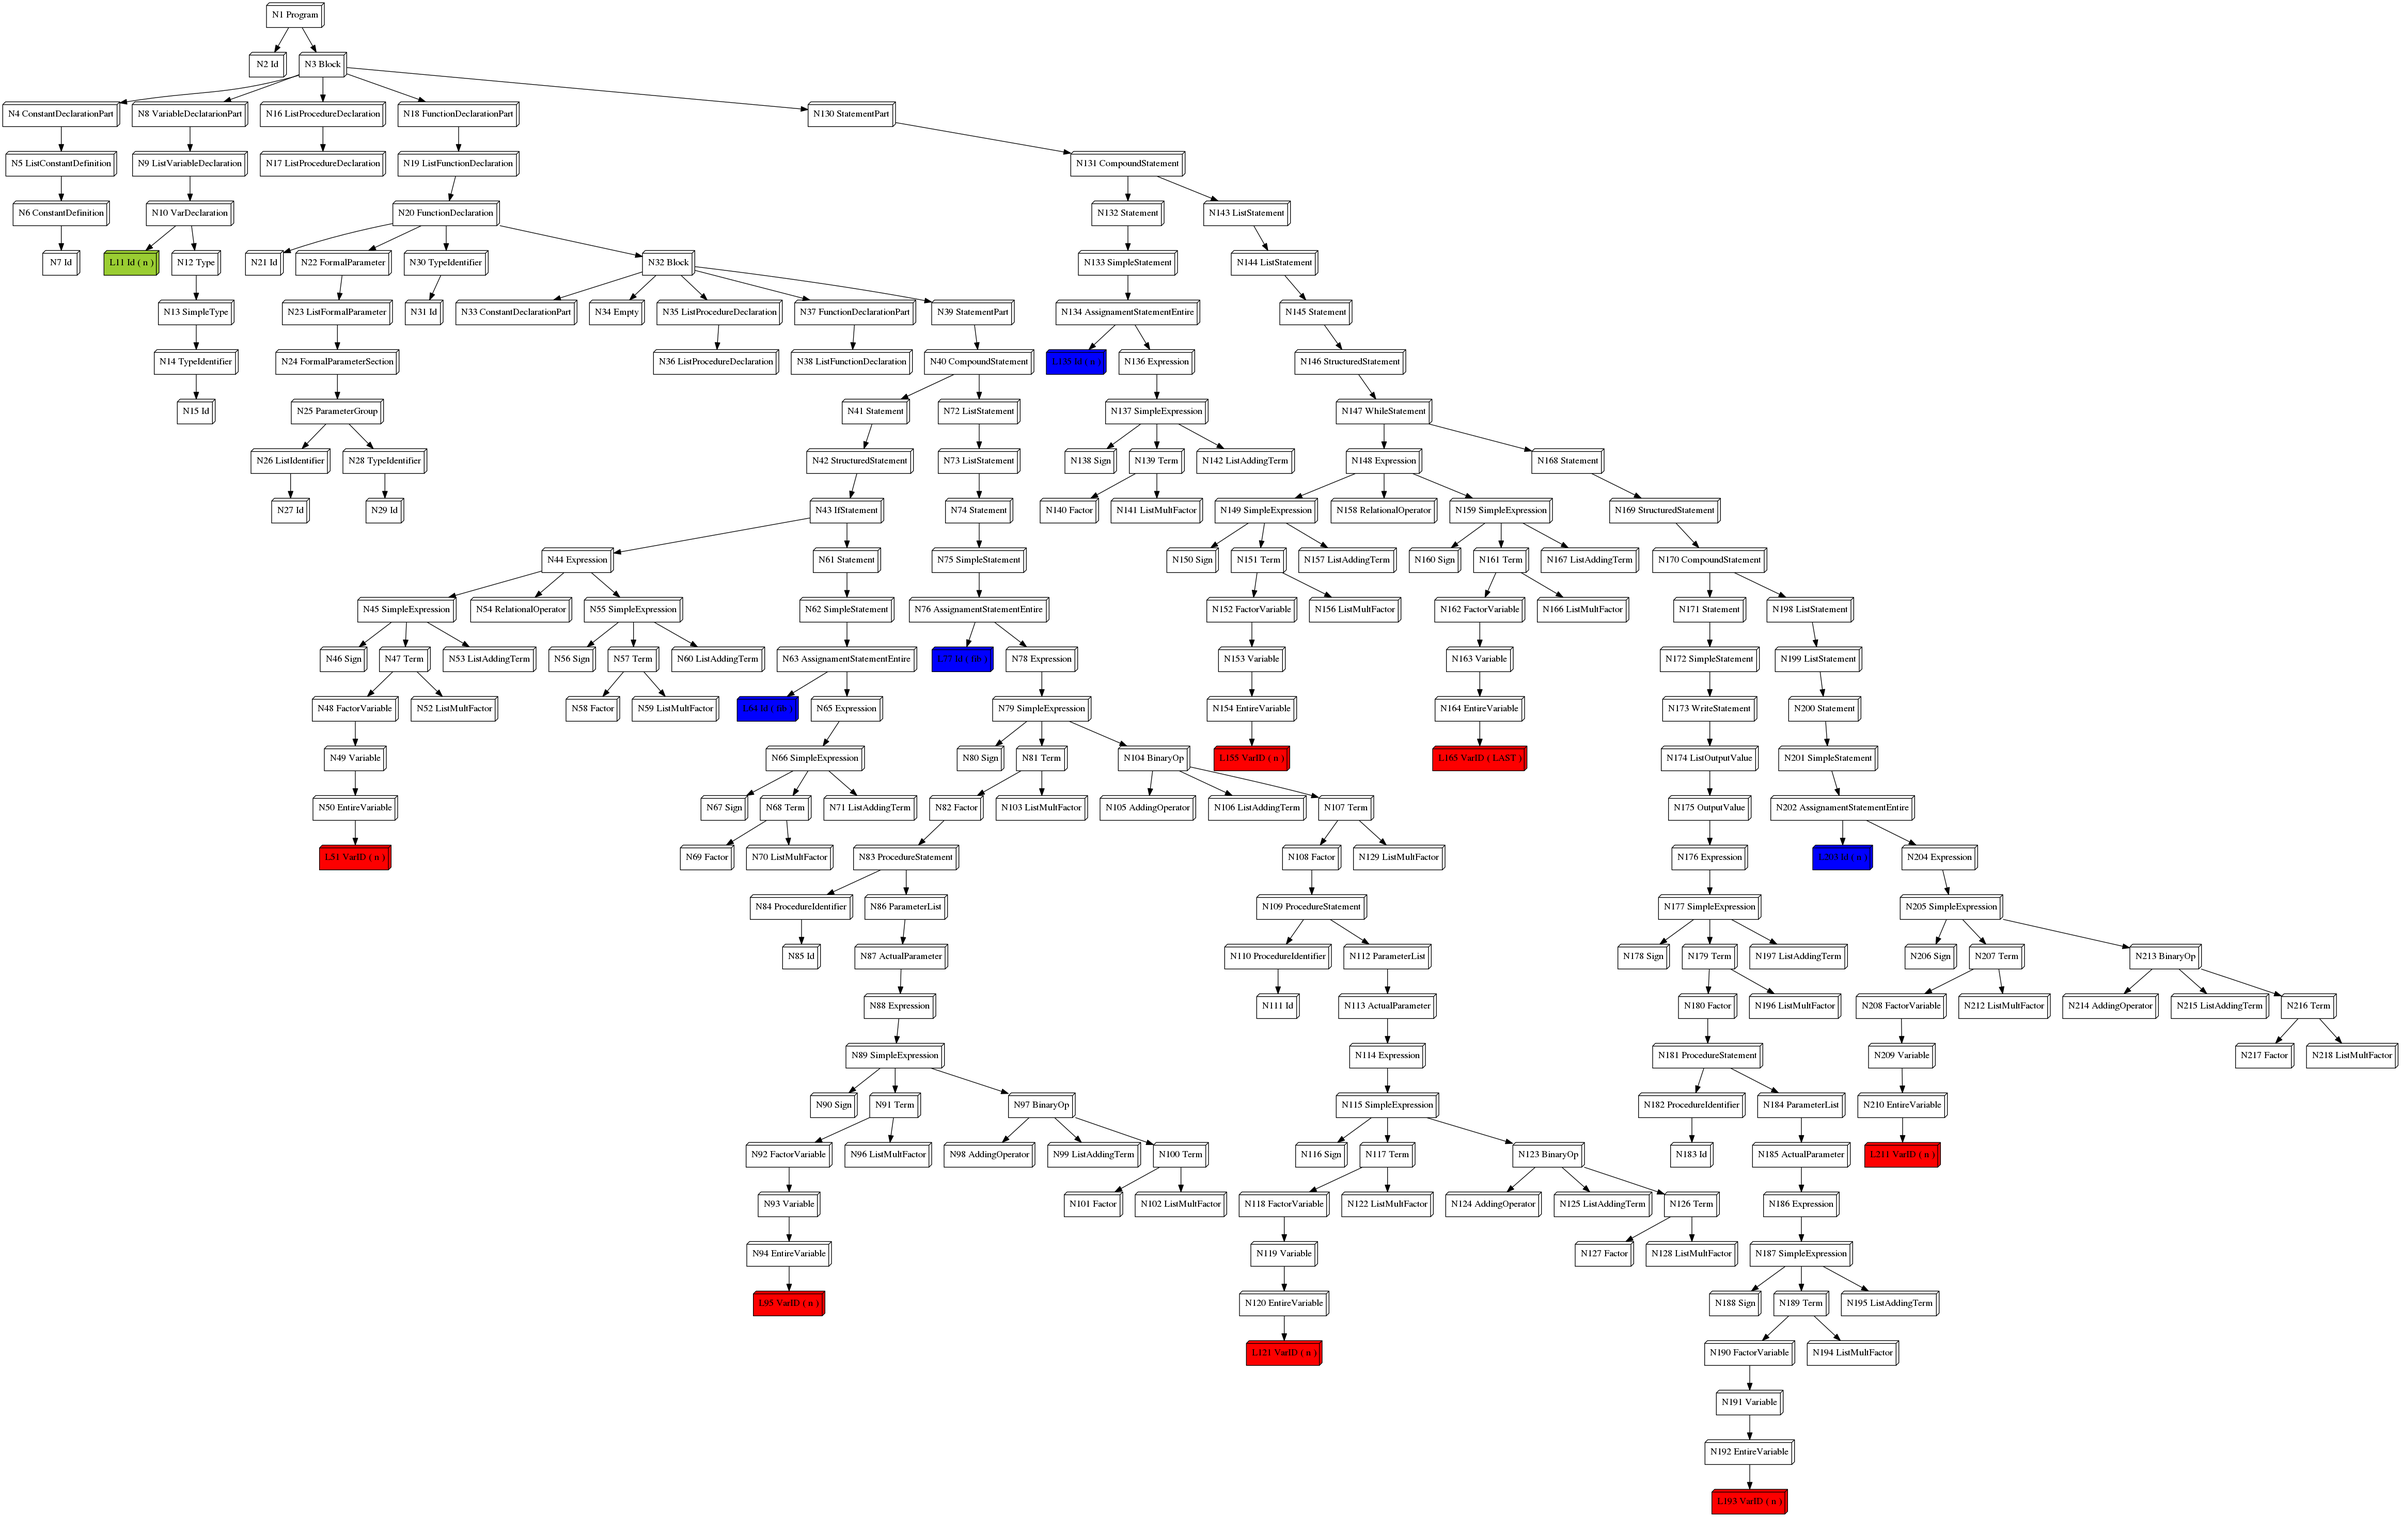
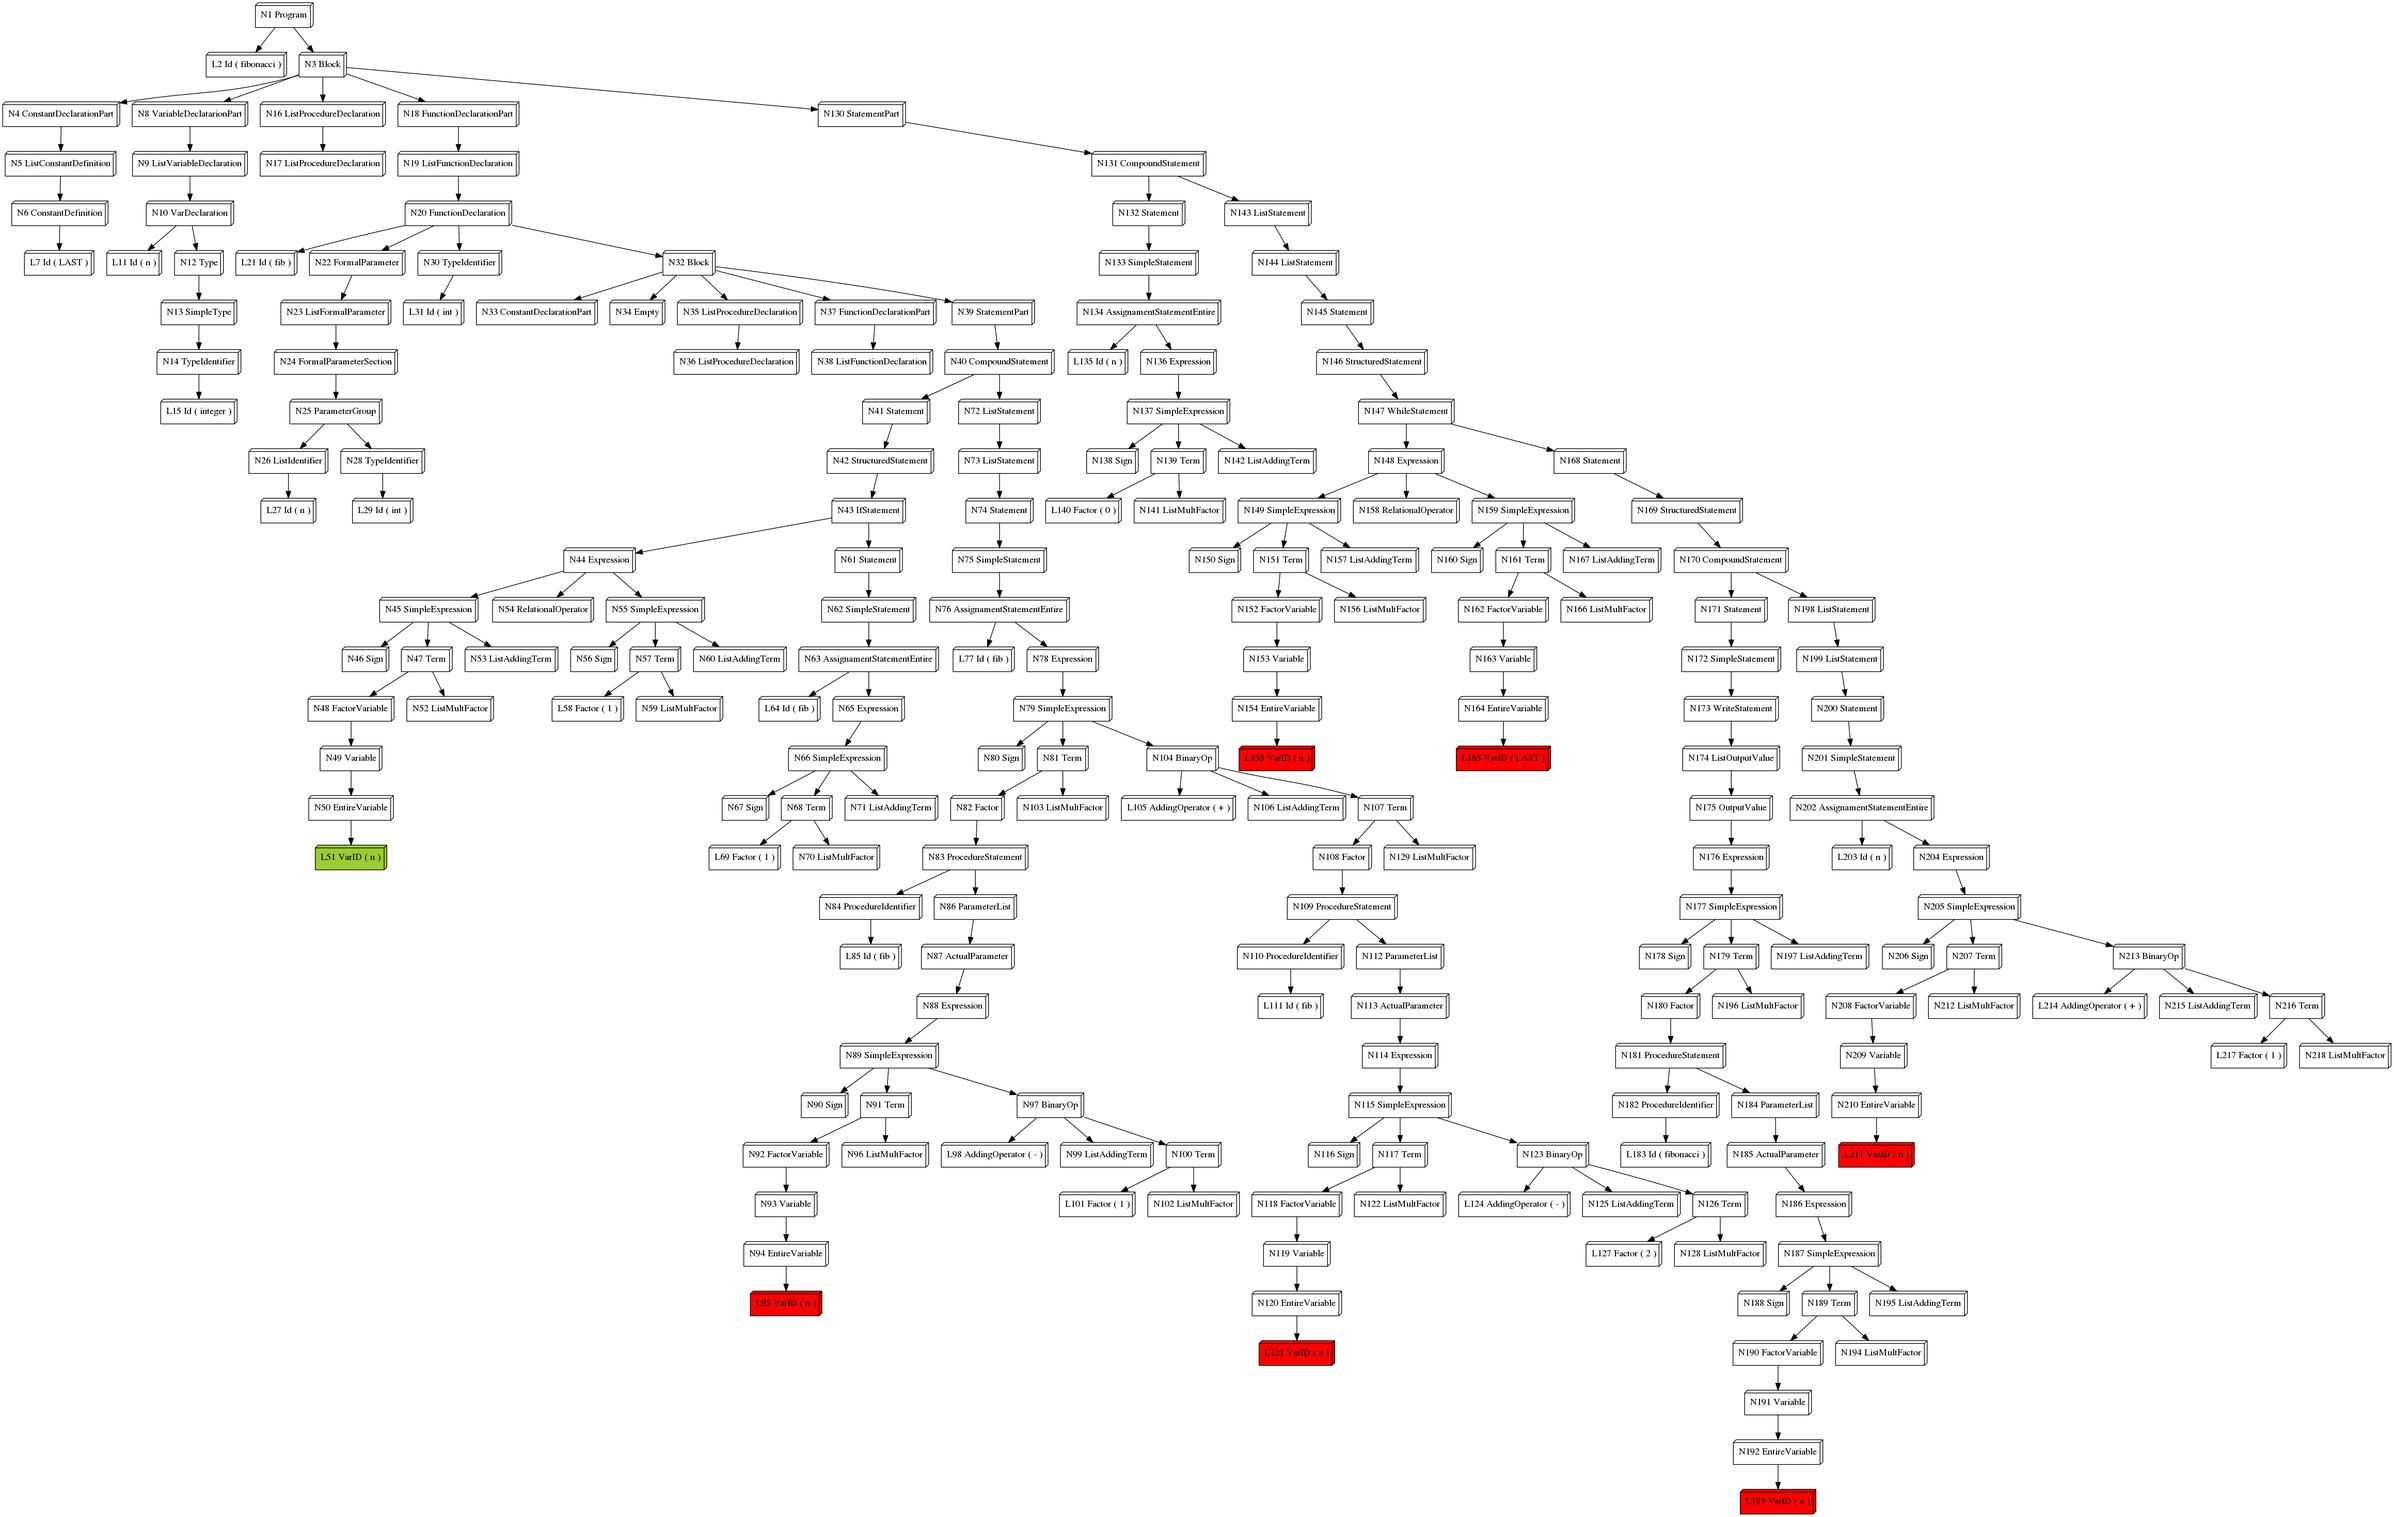
Se añaden colores para distintos tipos de variables. Se añade BinOp

diff --git a/parser.py b/parser.py
@@ -19,6 +19,10 @@ class PasParser(Parser):
 
     start = 'program'
 
+    _leafRed = False
+    _leafDec = False
+    _leafBlue = False
+
     @_('PROGRAM identifier SEMICOLON block DOT')
     def program(self,p):
         return Program(p.identifier,p.block)
@@ -75,7 +79,7 @@ class PasParser(Parser):
 
     @_('identifier COLON type')
     def var_declaration(self,p):
-        p.identifier._leafDec = True
+        self._leafDec = True
         return VarDeclaration(p.identifier,p.type,None)
 
     @_('list_identifier COLON type')
@@ -238,7 +242,7 @@ class PasParser(Parser):
 
     @_('identifier ASSIGN expression')
     def assignament_statement_entire(self,p):
-        p.identifier._leafBlue = True
+        self._leafBlue = True
         return AssignamentStatementEntire(p.identifier,p.expression)
 
     @_('indexed_variable ASSIGN expression')
@@ -470,19 +474,22 @@ class PasParser(Parser):
 
     @_('variable_identifier')
     def entire_variable(self,p):
-        p.variable_identifier._leafRed = True
+        self._leafRed = True
         return EntireVariable(p.variable_identifier)
 
     @_('ID')
     def variable_identifier(self,p):
         line = p.lineno
         index = p.index
-        """if(p._leafRed):
-            return VarId(p[0],_leafRed = True)
-        if(p._leafDec):
-            return VarId(p[0],_leafDec = True)
-        if(p._leafBlue):
-            return VarId(p[0],_leafBlue = True)"""
+        if(self._leafRed):
+            self._leafRed = False
+            return VarID(p[0],_leafRed = True,_leaf = False,_leafBlue = False,_leafDec = False)
+        if(self._leafDec):
+            self._leafDec = False
+            return VarID(p[0],_leafDec = True,_leaf = False,_leafBlue = False,_leafRed = False)
+        if(self._leafBlue):
+            self._leafBlue = False
+            return VarID(p[0],_leafBlue = True,_leaf = False,_leafRed = False,_leafDec = False)
         return VarID(p[0],_leaf = True)
 
     @_('ID')

diff --git a/astobjects.py b/astobjects.py
@@ -18,10 +18,11 @@ class AST(object):
                 setattr(self,name,value)
         else:
             setattr(self,"_leaf",False)
+            setattr(self,"_leafDec",False)
+            setattr(self,"_leafRed",False)
+            setattr(self,"_leafBlue",False)
 
-        """setattr(self,"_leafDec",False)
-        setattr(self,"_leafRed",False)
-        setattr(self,"_leafBlue",False)"""
+
 
         #setattr(self,"_leaf",False)
 
